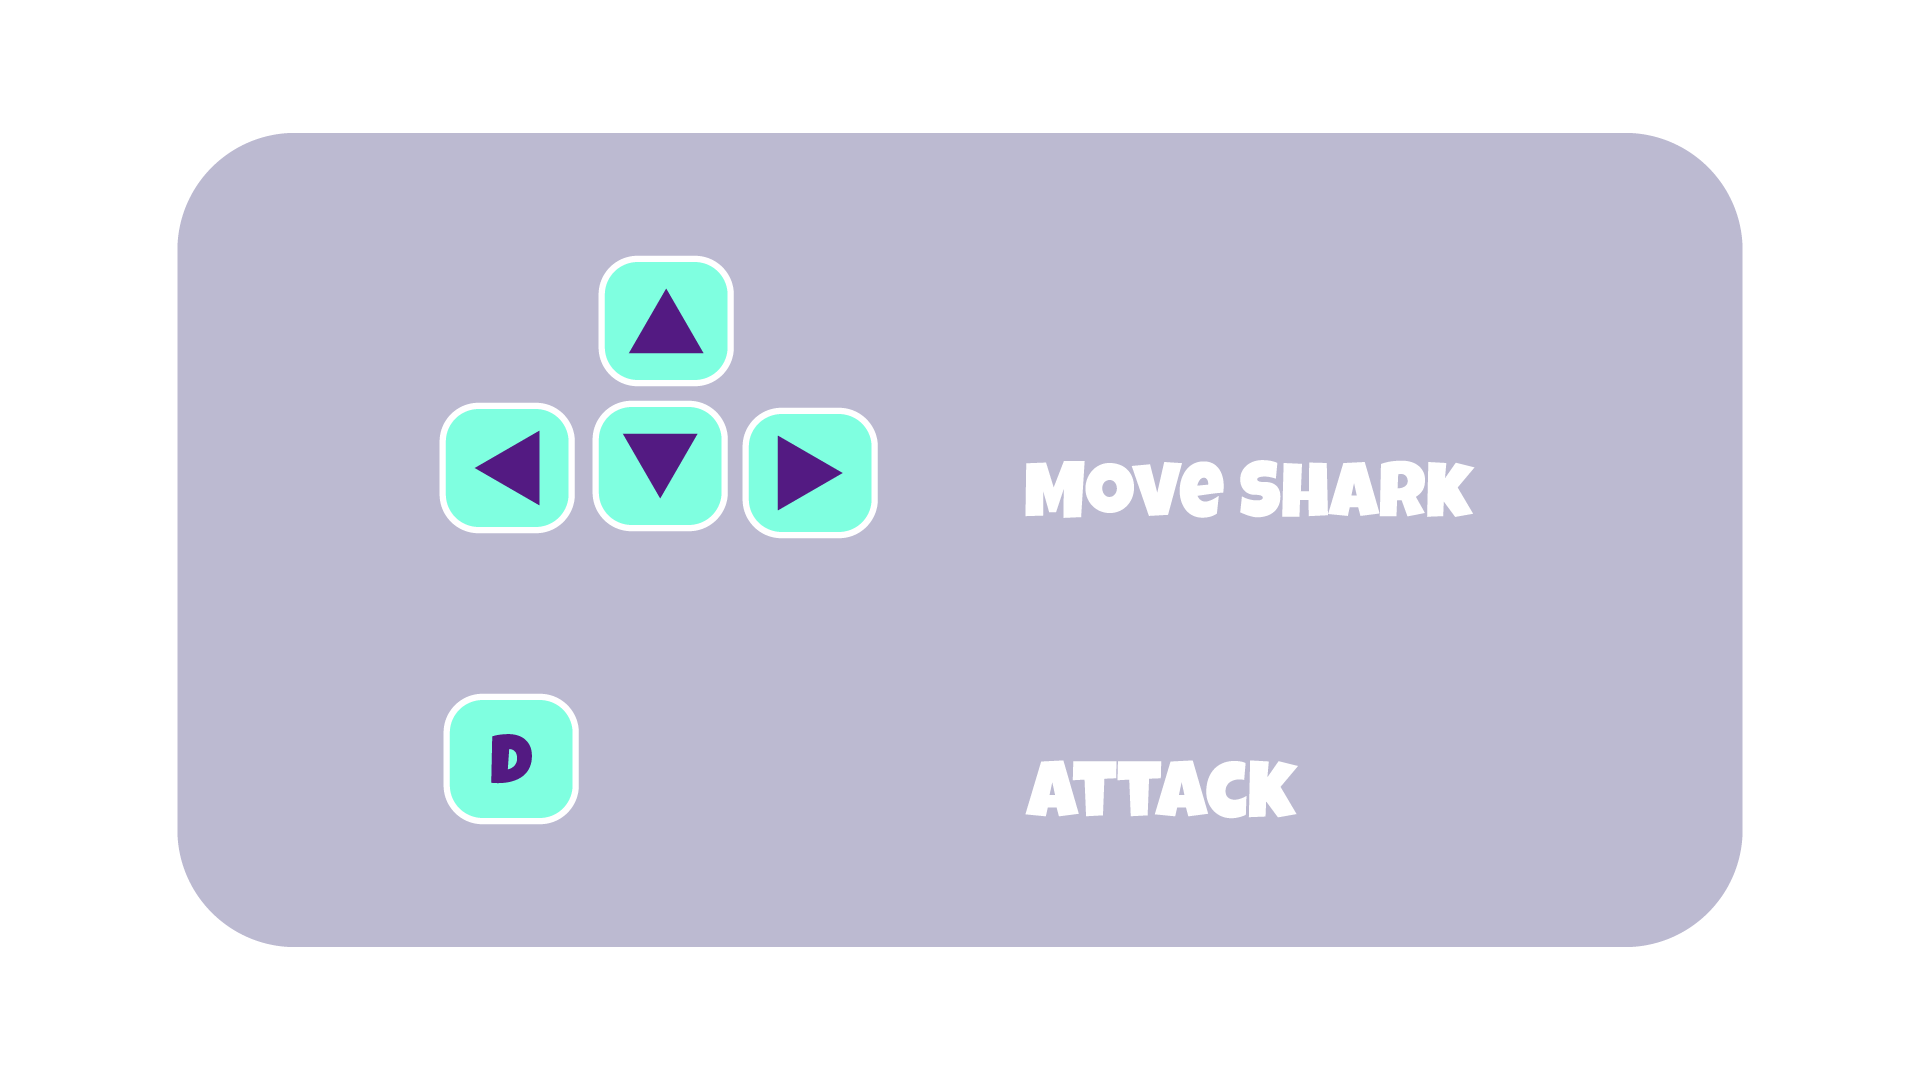
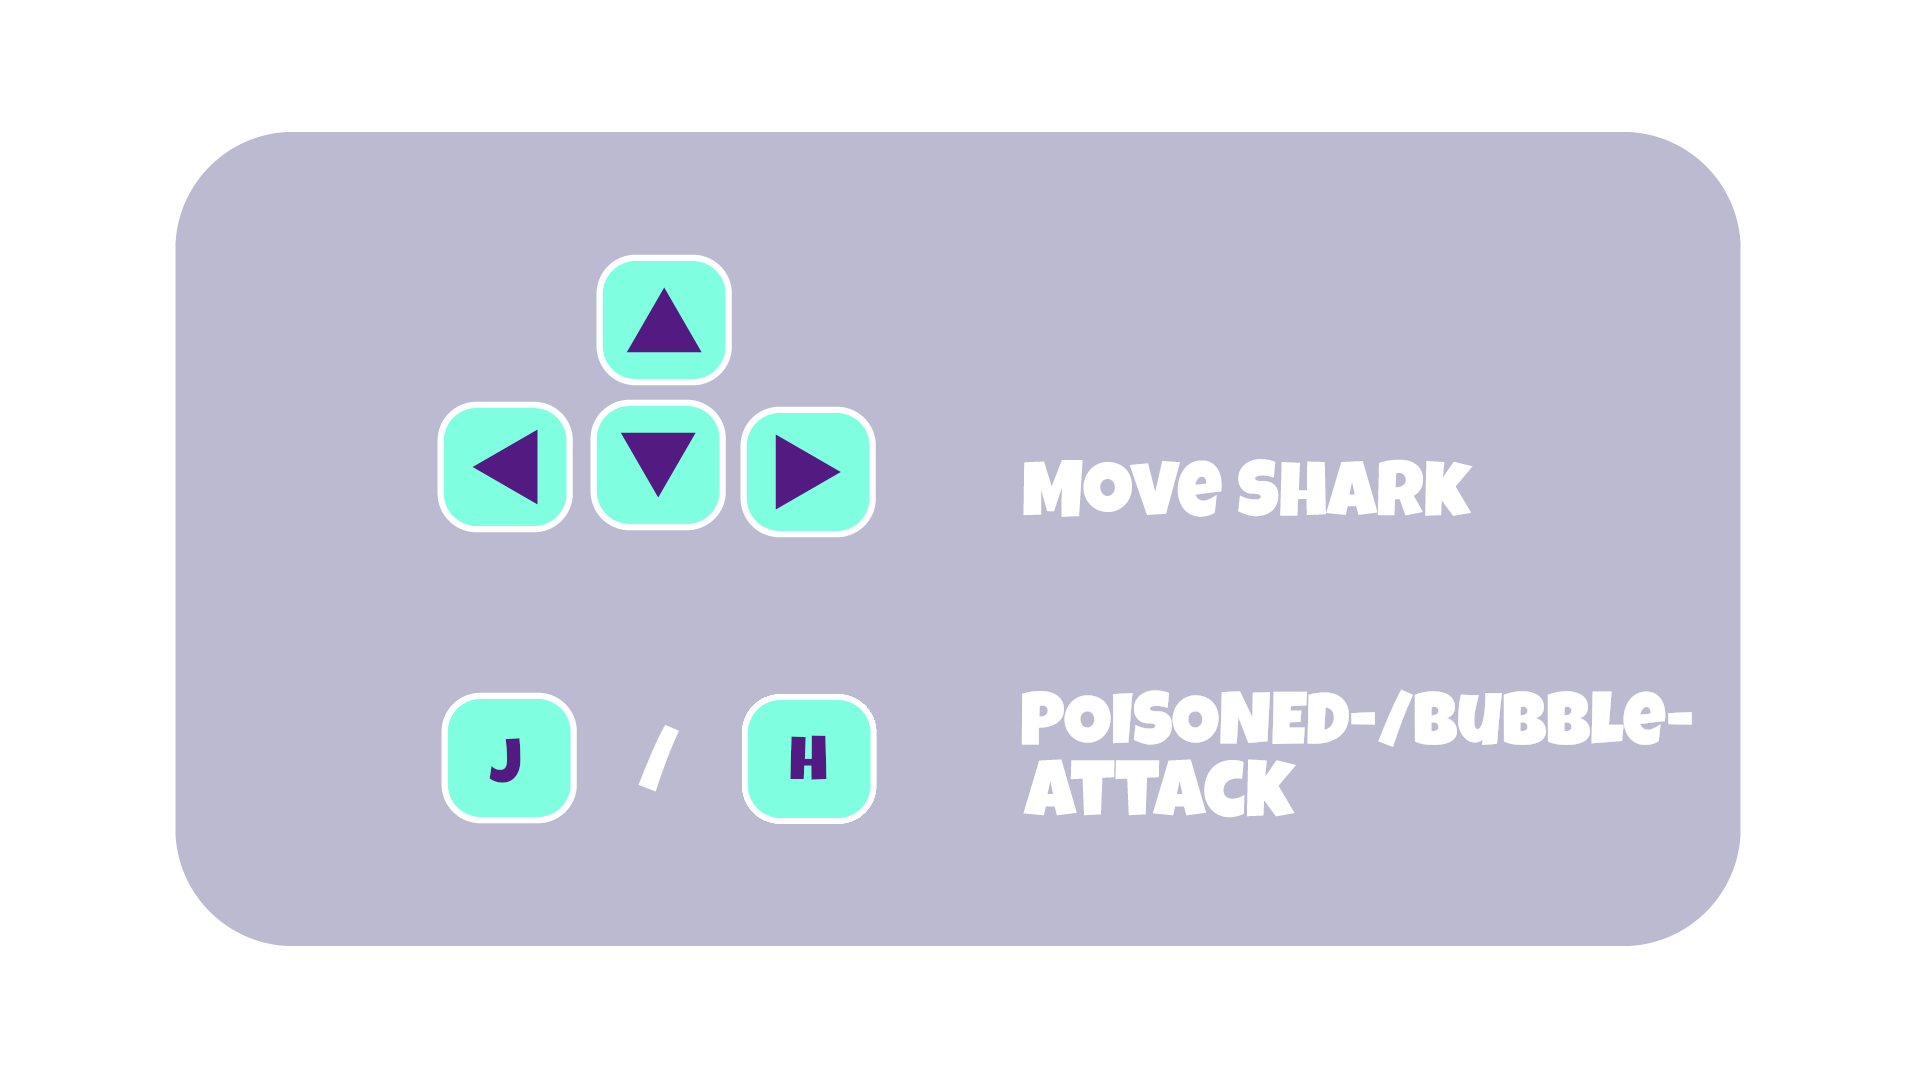
updated instructions

diff --git a/js/game.js b/js/game.js
@@ -38,7 +38,7 @@ function openSettings() {
                 <img src="img/fullscreen-32.png">
                 <span>Toggle Fullscreen</span>
             </a>
-            <a>
+            <a onclick="openInstructions()">
                 <img src="img/help-32.png">
                 <span>Instruction</span>
             </a>
@@ -150,4 +150,46 @@ function chooseGameSound() {
 
 function toggleHitboxes() {
     world.hitboxes = !world.hitboxes
+}
+
+function openInstructions() {
+    document.getElementById('mid-pannel').innerHTML = `
+        <div id="setting-pannel" class="settingPannel">
+            <div class="settingHeader">
+                <img src="img/x-mark-32.png" class="closeMark" onclick="openSettings()">
+                <span>Instructions</span>
+                <img src="img/x-mark-32.png" class="closeMark" onclick="closeSettings()">
+            </div>
+            <div class="carousel" data-carousel>
+                <button class="carouselBtn prevImg" data-carousel-button="prev">&#8249;</button>
+                <button class="carouselBtn nextImg" data-carousel-button="next">&#8250;</button>
+                <ul data-slides>
+                    <li class="slide" data-active> 
+                        <img src="img/6.Botones/Instructions 1.png" alt="Instruction Image 1">
+                    </li>
+                    <li class="slide"> 
+                        <img src="img/6.Botones/Instructions 2.png" alt="Instruction Image 2">
+                    </li>
+                </ul>
+            </div>
+        </div>`;
+    instructionSlider();
+}
+
+function instructionSlider() {
+    const buttons = document.querySelector("[data-carousel-button]");
+    buttons.forEach(button => {
+        button.addEventListener("click", () => {
+            const offset = button.dataset.carouselBtn === "next" ? 1 : -1;
+            const slides = button
+                .closest("[data-carousel]")
+                .querySelector("[data-slides]")
+            const activeSlide = slides.querySelector("[data-active]");
+            let newIndex = [...slides.children].indexOf(activeSlide) + offset;
+            if(newIndex < 0) newIndex = slides.children.length - 1;
+            if(newIndex >= slides.children.length) newIndex = 0;
+            slides.children[newIndex].dataset.active = true;
+            delete activeSlide.dataset.active;
+        })
+    });
 }

diff --git a/css/style.css b/css/style.css
@@ -167,3 +167,67 @@ canvas {
 .hoverEffect:hover img {
     filter: brightness(0) saturate(100%) invert(69%) sepia(0%) saturate(0%) hue-rotate(92deg) brightness(95%) contrast(91%);
 }
+
+.carousel {
+    width: 360px;
+    height: 240px;
+    position: relative;
+}
+
+.carousel ul {
+    margin: 0;
+    padding: 0;
+    list-style: none;
+}
+
+.slide {
+    position: absolute;
+    inset: 0;
+    opacity: 0;
+}
+
+.slide img {
+   display: block;
+   width: 100%;
+   height: 100%;
+   object-fit: cover;
+   object-position: center;
+   filter: none; 
+}
+
+.slide[data-active] {
+    opacity: 1;
+}
+
+.carouselBtn {
+    position: absolute;
+    background: none;
+    border: none;
+    color: rgba(255,255,255,0.5);
+    font-size: 2rem;
+    top: 50%;
+    z-index: 2;
+    transform: translateY(-50%);
+    cursor: pointer;
+    border-radius: 0.25rem;
+    padding: 0 0.5rem;
+    background-color: rgba(0,0,0,0.1);
+}
+
+.carouselBtn:hover,
+.carouselBtn:focus {
+    color: white;
+    background-color: rgba(0,0,0,0.2);
+}
+
+.carouselBtn:focus {
+    outline: 1px solid black;
+}
+
+.carouselBtn.prevImg {
+    left: 0.5rem;
+}
+
+.carouselBtn.nextImg {
+    right: 0.6rem;
+}
